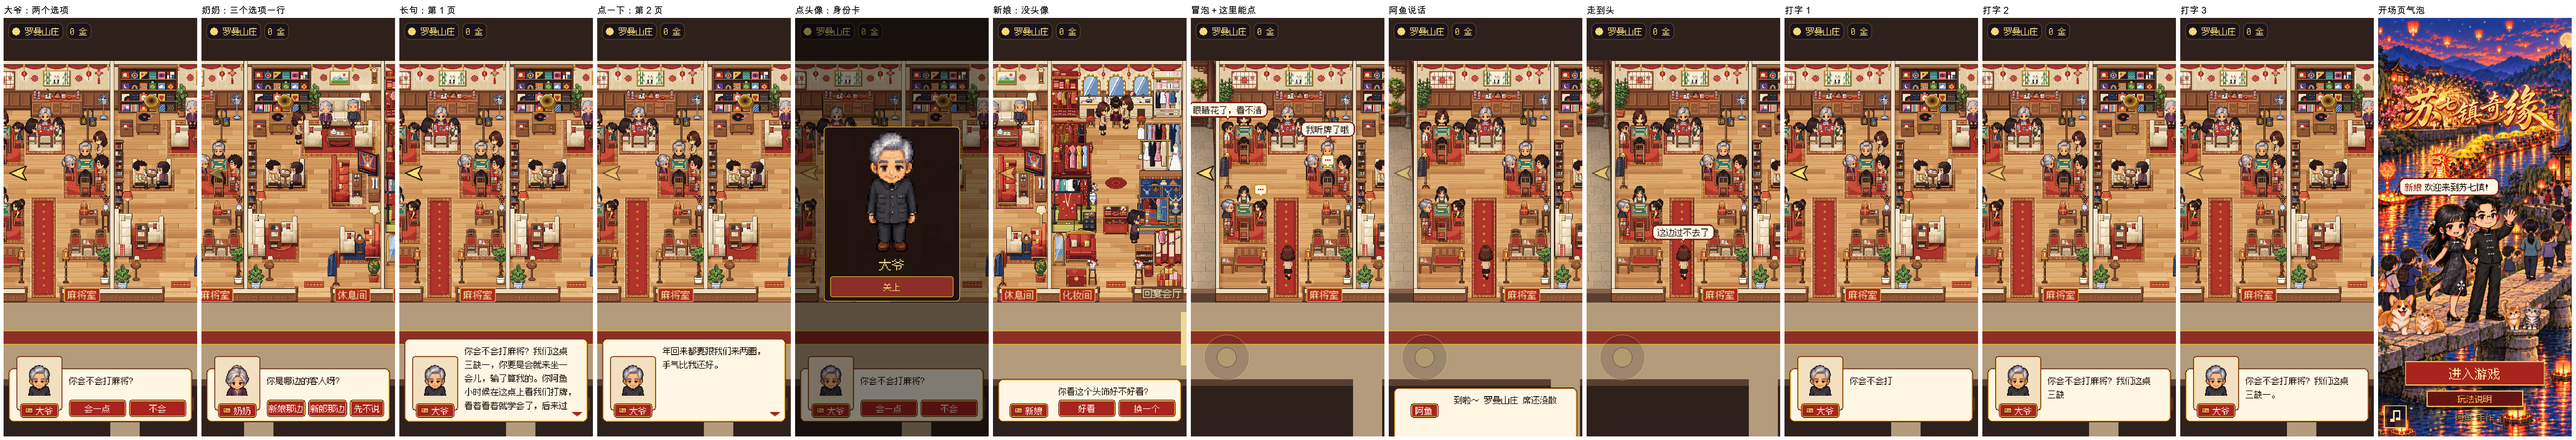
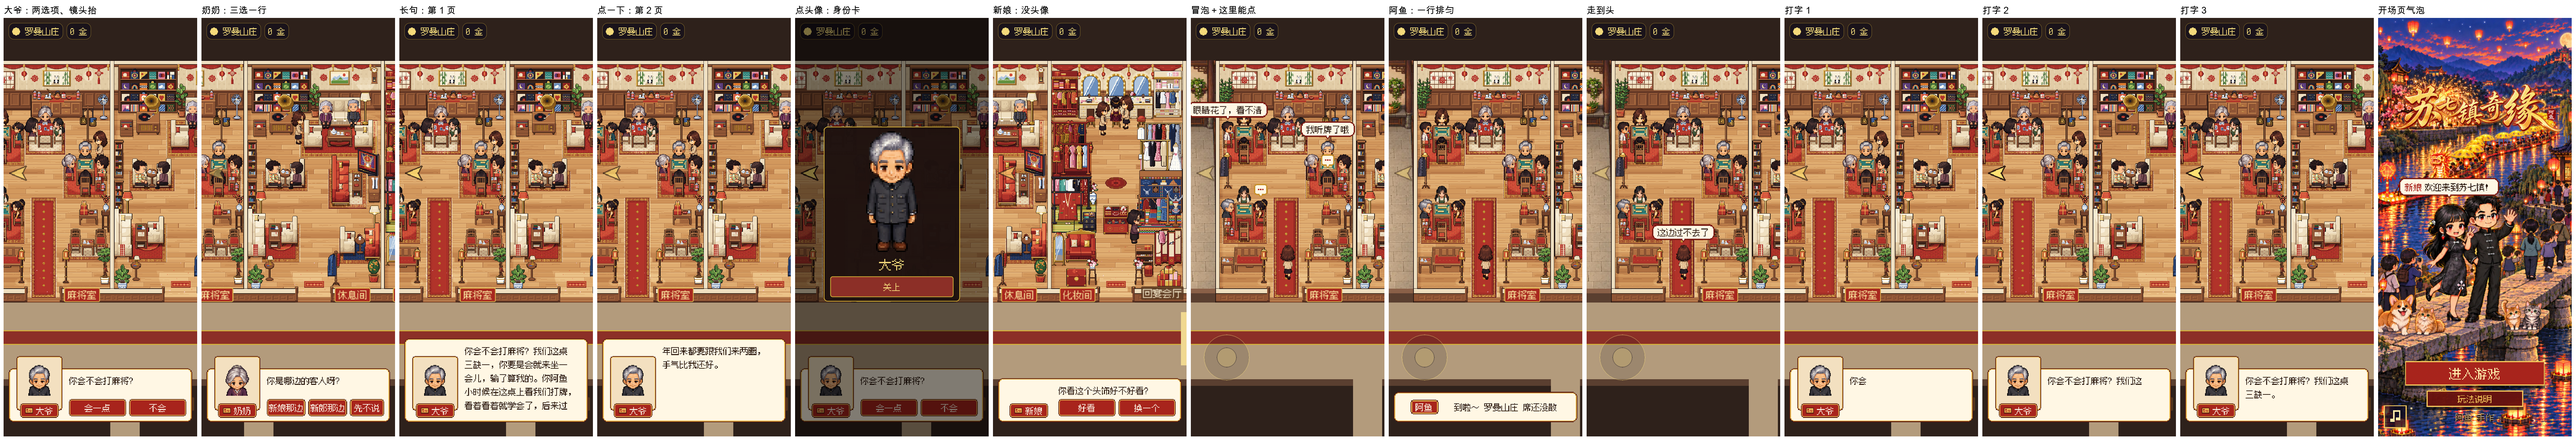
对话框 B 第二轮（04 四条）：框开着镜头往下让、人和说话的人露在框上；选项高 48；阿鱼一行框收矮居中；字号照旧 24（22 糊、36 放不下）
- scripts/ui/dialog_skin.gd：Typer._lift_tick 用镜头 offset.y + 临时放宽 limit_bottom，关框还原；没动 main.gd、entrance.gd
- 阿鱼的框下沿被 main._layout_top 每帧设到 TOP_Y、掉出屏幕：在 skin 里钉回离底 40
- tools/test_dialog_lift.gd（新）：手机、长屏各一遍，全过
- 回执/对话框B铺开-回执.md 加第二轮一节，重截总图

diff --git a/godot/回执/对话框B铺开-回执.md b/godot/回执/对话框B铺开-回执.md
@@ -1,6 +1,6 @@
 # 冒泡和对话框：B 全游戏铺开 · 回执
 
-> 05，2026-10-04，ui-dialog 分支（合了 main 33a1aa7）。01 H 派。阿鱼原话：「全游戏通用的角度你觉得那个合适？我看起来 B 最合适全局通用 不过布局可以换成这样，
+> 05，2026-10-04，ui-dialog 分支（合了 main 33a1aa7，第二轮前又合了 main 04da112）。01 H 派。阿鱼原话：「全游戏通用的角度你觉得那个合适？我看起来 B 最合适全局通用 不过布局可以换成这样，
 > 身份卡 只用 icon 放到名字前就行了，点击头像就可以展开；NPC 的话放在对话框大部分，超长可以点翻页；最后一行放选择 btn，通用一行展示完成。其他 npc 的小气泡也用同样的配色」
 > 布局图：`docs/参考图/对话框布局-阿鱼10-04.png`。上一步三种样子的回执：`对话框三种样子-回执.md`。不合 main、不出码。
 
@@ -10,6 +10,25 @@
 - **对话框**：头像在左边、往上顶出框沿；名字牌压在头像下边、名字前一个身份卡小图标（右上角那个「身份卡」按钮去掉）；点头像或名字牌展开身份卡；话占头像右边大部分，一屏放不下点一下翻页（右下小三角）；最后一行放选项、一行排完；没头像（新娘、阿鱼）名字牌照旧在左下、不放图
 - **冒泡、「这里能点」提示泡、走到头气泡、开场页角色气泡**：米白底、深红（提示泡是金）描边，圆润、留白多
 - 字一个个出，点一下先出完这一页、再点翻页、再点下一句；标点不放行首
+
+## 04 看完 B 的四条（10/4 第二轮，01 H 转）
+
+| 条 | 怎么改的 | 结果 |
+| --- | --- | --- |
+| 1 底色 | 照旧米色 #fff7e4 | 没动 |
+| 2 框开着时玩家、说话的人被盖 | 框开着时镜头往下让（画面往上抬），让说话的人头顶脚下、玩家头顶脚下都在框上沿上面再留 24；镜头慢慢让（约 0.3 秒）、关框慢慢回去。只算要让多少，不挪人 | 大爷、奶奶、新娘三位，手机、长屏都露出来了；关框后镜头回原位（`test_dialog_lift`） |
+| 3 字号 22、选项高 44 | **选项高 46 → 48**（按钮露在外面的约 44，04 要 ≥44）；**字号照旧 26（实际显示 24）**：像素字只能按 12 的整倍清楚显示（12、24、36），22 会糊；往上一档 36 奶奶三选一放不下 | 奶奶三选一一行：要 316、有 328，放得下 |
+| 4 阿鱼那种没头像的框排匀 | 没头像、没选项、一行话时：框收矮到 84（原来最矮 96、话贴上边，下面空一块），名字牌和话在一条线上、上下居中 | 手机、长屏都居中（`test_dialog_lift` 量了） |
+
+**镜头动在哪（第 2 条）**：**没改 `main.gd`、`entrance.gd` 的共用镜头代码**，全在 `scripts/ui/dialog_skin.gd` 里对话框自己那个 `Typer`（`_lift_tick`、`_lift_targets`、`_lift_reset`，约 497～558 行）：
+- 用镜头的 `offset.y`（画布每帧设的是 `cam.position`，不碰它，所以跟 07 改走路、跟随不撞）；
+- 让的时候把镜头 `limit_bottom` 临时放宽同样多（不然到画布底就让不动），关框回 0 后还原成原值；
+- 说话的人从 `lounge_ui.life_of(talk_id).people` 拿，阿鱼的框只看玩家；
+- 换画布、框没关就切走：发现镜头换了先把旧镜头还原。
+- **风险**：画布最底下的人说话时，画面会露出画布下沿外面一截（深色），要真机看能不能接受。
+
+**顺手修的一处**：阿鱼的框在屏幕外面掉了一截（下沿到了屏幕下面 150）。原因是 `main._layout_top` 还按原来「顶上一条」每帧把框的下沿设成 `TOP_Y`。也在 `dialog_skin.gd` 里改（框自己每帧把下沿钉回离底 40），`main.gd` 没动。
+**留给 07（第二步，main.gd 两三行）**：`_layout_top` 里 `if dialog.visible: y += dialog.size.y + 10` 这段还在——阿鱼说话时，顶上的提示条、进厅小卡会被往下推一个框高（约 94），框已经不在顶上了，这段可以删。
 
 ## 选项按钮的字精简了（阿鱼 10/4：「如果 btn 文案过长的，你就废话少说精简一点」；01 定一般 2～4 字、最多 5 字）
 
@@ -44,13 +63,14 @@
 
 | 文件 | 改了什么 | 跟谁撞 |
 | --- | --- | --- |
-| `scripts/ui/dialog_skin.gd` | 选项按钮两边留白 10 → 6；只留 B 一套（A、C 拿掉）；对话框照阿鱼的排法重写：头像框（点了开身份卡）、名字牌带图标（点了也开）、分页、选项一行、量一行放不放得下（`choices_fit`）；冒泡、提示泡换 B 配色；开场页能用的气泡底子、小尖 | — |
+| `scripts/ui/dialog_skin.gd` | **第二轮**：框开着镜头往下让（`_lift_tick`，镜头 offset + 临时放宽 limit_bottom）、选项高 48、没头像一行的框收矮居中、阿鱼的框下沿钉回屏幕底、`_frame` 往上长。**第一轮**：选项按钮两边留白 10 → 6；只留 B 一套（A、C 拿掉）；对话框照阿鱼的排法重写：头像框（点了开身份卡）、名字牌带图标（点了也开）、分页、选项一行、量一行放不放得下（`choices_fit`）；冒泡、提示泡换 B 配色；开场页能用的气泡底子、小尖 | — |
 | `scripts/lounge_ui.gd`（07） | `choices` 类型 `VBoxContainer` → `BoxContainer`（选项改成一行）；`next_line` 多 2 行：有下一页先翻页 | 02 F 在 room01 动化妆间三位的冒泡和对话（makeup.json、lounge_life.gd）：我没改行为；合的时候 lounge_ui 这几行、lounge_life 画气泡那段会碰到同一个文件 |
 | `scripts/lounge_life.gd`（07） | 上一步已换画法、加同屏最多两个；这次没再动 | 同上 |
 | `scripts/title_screen.gd` | 开场页气泡底子、小尖换成同一套 | — |
-| `scripts/main.gd` | 上一步的（阿鱼的框挪下、走到头气泡）；这次没再动 | 07 第 68 版改了 main.gd、entrance.gd，合进 main 以后我再合一次 |
+| `scripts/main.gd` | 上一步的（阿鱼的框挪下、走到头气泡）；这次、第二轮都没再动（镜头上抬也没动它） | 07 第 68 版改了 main.gd、entrance.gd，合进 main 以后我再合一次 |
 | `assets/backhall/dialogue/` 三份 | 选项字精简（见上表） | 02 F 化妆间两份 |
 | `tools/test_lounge_dialogue.gd`（02） | 三处旧选项字换新字 | — |
+| `tools/test_dialog_lift.gd`（新） | 第二轮验收：三位说话时人和玩家露在框上面、关框镜头回原位、分页点击、阿鱼框在屏里且居中；手机、长屏各一遍 | — |
 | `tools/shot_ui_skin.gd` | 加奶奶三选、长句翻页两页、点头像开身份卡；打印选项放不放得下 | — |
 
 `card_btn` 还在（07 的行为、03 的测试都按它开身份卡），只是不显示。`line_label` 照旧装整句（行为、测试读），屏上显示的是分好页的那一页。
@@ -69,8 +89,10 @@
 
 | 项 | 结果 |
 | --- | --- |
-| 截图（手机 540×960、长屏 1170×2532） | `对话框B铺开/B铺开-手机540x960.png`、`B铺开-长屏1170x2532.png`：大爷两选项、奶奶三选项一行、长句第 1 页 / 第 2 页、点头像身份卡、新娘没头像、冒泡＋这里能点、阿鱼说话、走到头、打字三连拍、开场页气泡 |
-| 全套测试 | 86 过；没过的 5 个＝那 4 个跟新规矩冲突的（上一节）+ test_map（照旧没有 RESULT 行） |
+| 第二轮四条 | `test_dialog_lift` 两种屏全过；`对话框B铺开/04反馈-镜头上抬和一行框.png`（手机、长屏：大爷说话镜头抬、阿鱼一行居中） |
+| 截图（手机 540×960、长屏 1170×2532，第二轮重截） | `对话框B铺开/B铺开-手机540x960.png`、`B铺开-长屏1170x2532.png`：大爷两选项、奶奶三选项一行、长句第 1 页 / 第 2 页、点头像身份卡、新娘没头像、冒泡＋这里能点、阿鱼说话、走到头、打字三连拍、开场页气泡 |
+| 全套测试（第二轮） | 87 过（多了新的 `test_dialog_lift`）；没过 7 个＝那 4 个跟新规矩冲突的 + test_map（没有 RESULT 行）+ `test_park_sign_check`、`test_signs68_check`（03 给第 68 版 drive68 写的验收，合 main 04da112 带进来；在没有这次改动的 HEAD 上单跑也不过，跟对话框无关） |
+| 全套测试（第一轮） | 86 过；没过的 5 个＝那 4 个跟新规矩冲突的（上一节）+ test_map（照旧没有 RESULT 行） |
 | 卡不卡 | 冒泡、框的像素图画一次存着、以后共用：没存之前 `test_build60_walk`（快进走遍各块）从 206 秒拖到 372 秒、超过全套每个 300 秒的时限；存了以后 175 秒，比 main 还快 |
 | 包体 | 只多一个脚本 `dialog_skin.gd`（28 KB 源码），不加图（框、图标都是运行时生成的） |
 
@@ -78,7 +100,10 @@
 
 - 打字一秒 28 个字快不快；翻页、点头像开身份卡手感
 - 2 倍、3 倍屏上圆角、描边看着匀不匀
+- 镜头让开快慢（0.3 秒左右）晕不晕；画布最底下的人说话、画面露出画布下沿那一截能不能接受
 
 ## 给阿鱼
 
 对话框照你画的改好了：头像在左边、顶出框；名字前面一个小卡片图标，点头像或名字就打开身份卡；话占大半个框，太长会分页，点一下翻下一页；选项在最后一行排开。所有人的气泡也换成了同一套米白配深红，圆圆的。按钮上的字照你说的精简了：「再换一个试试」改成「换一个」，奶奶的「新娘那边的」「新郎那边的」改成「新娘那边」「新郎那边」，三个选项现在一行放得下。
+
+04 看完以后又改了四处：底色还是米色；对话框打开时，画面会往上挪一点，你和说话的人都露在框上面，关了框再挪回来；选项按钮加高了一点；阿鱼说话那种一行的框收矮了，名字和话排在一条线上。字没法调到 22：游戏用的像素字只有 24 和 36 两档清楚，36 会让奶奶的三个选项放不下，所以还是 24。
